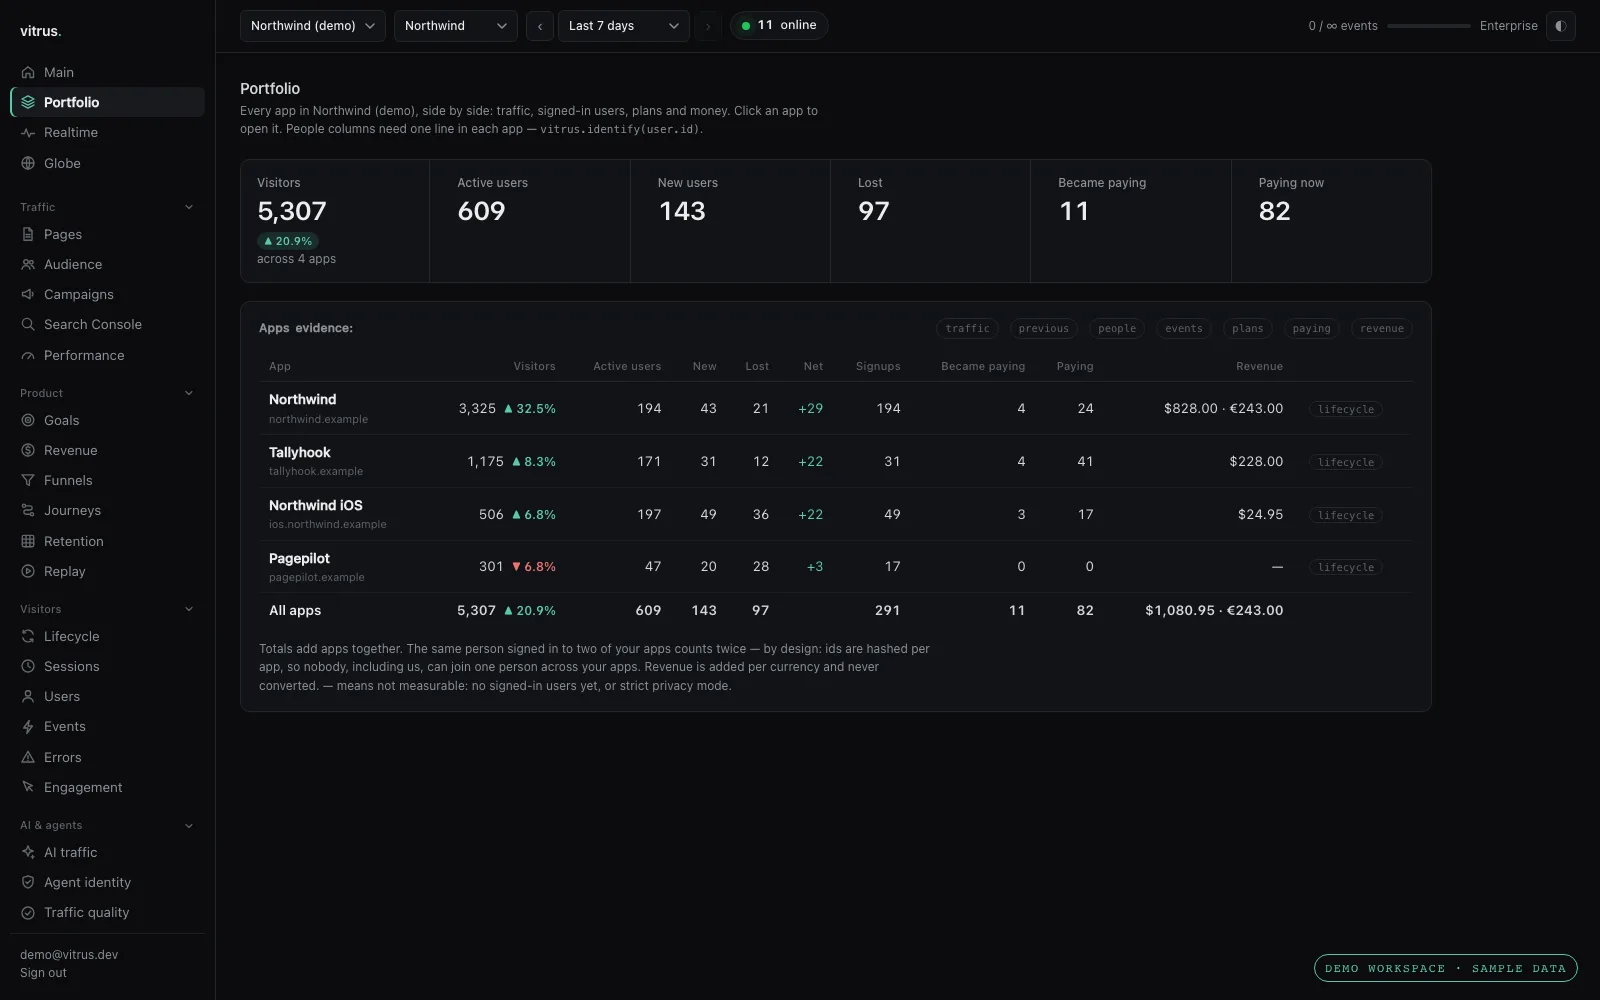
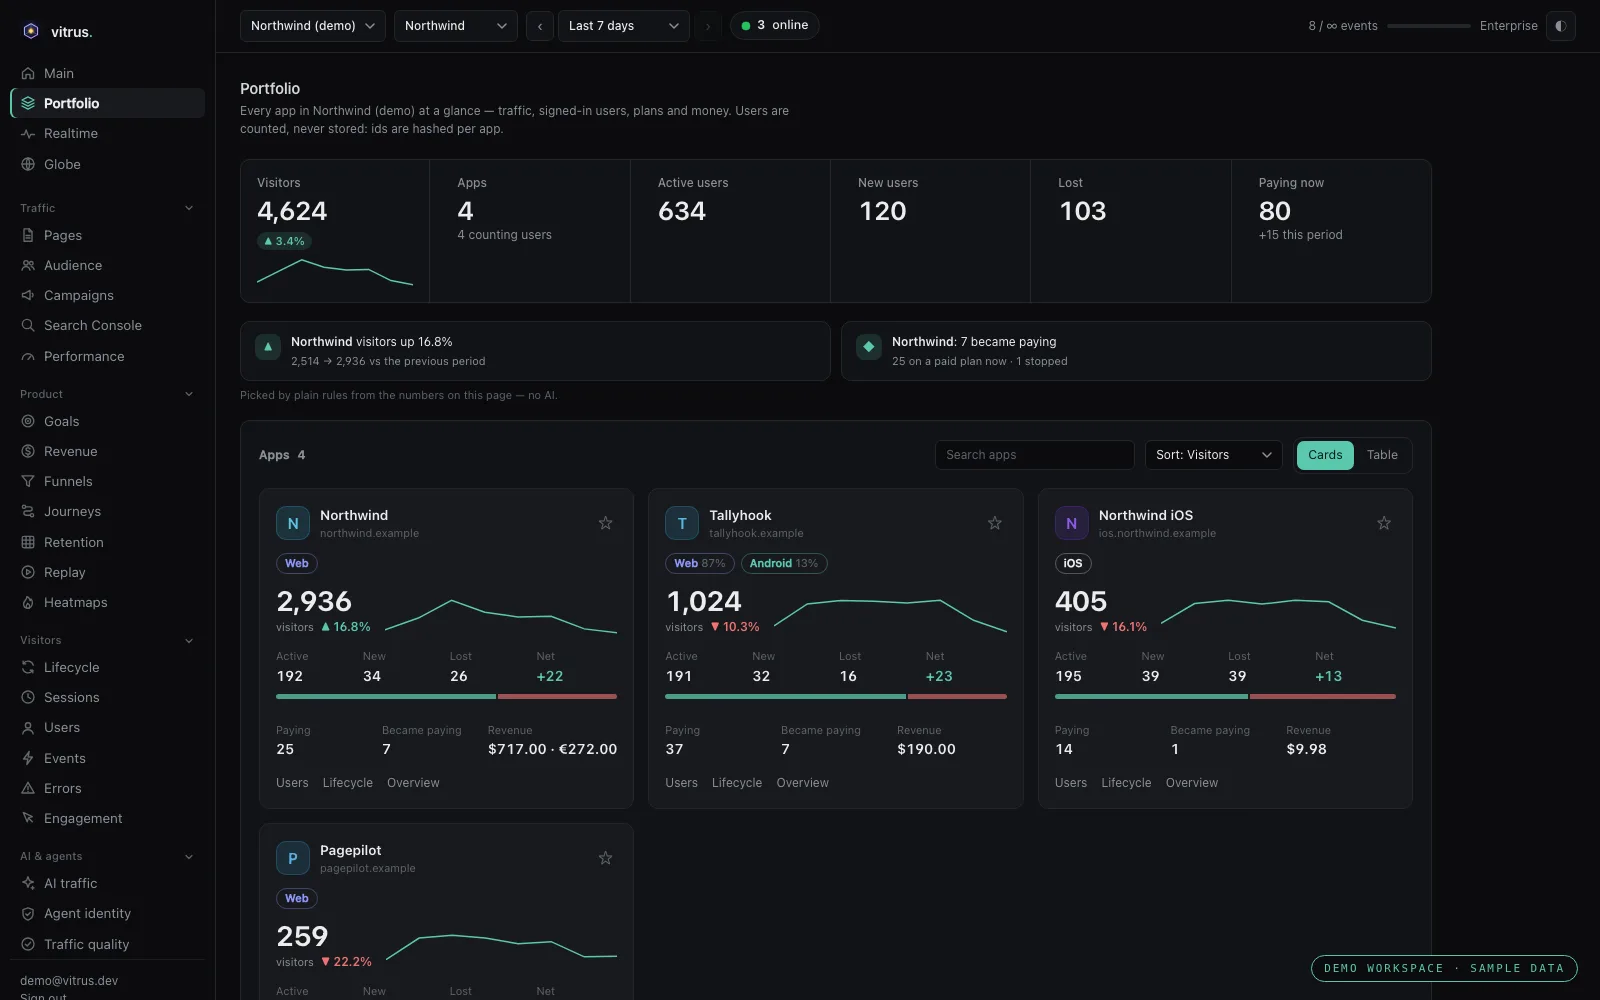
Portfolio: visitor trend line and Web/iOS/Android split per app (0.11.0)
computePortfolio now returns, per site, visitors per day (per week past three
months) and visitors per platform, each with the SQL that produced it. The
SDKs' own user-agent is what puts an app under iOS or Android.

diff --git a/packages/core/src/metrics/portfolio.ts b/packages/core/src/metrics/portfolio.ts
@@ -58,10 +58,20 @@ export interface PortfolioRow {
   stoppedPaying: number;
   paying: number;
   revenue: { currency: string; revenue: number; orders: number }[];
+  /** Visitors per bucket across the range (`window.bucket` ms each, UTC-aligned), oldest first. */
+  series: number[];
+  /** Visitors per platform. A visitor seen on two platforms counts on both. */
+  platforms: Record<Platform, number>;
 }
 
+export type Platform = "web" | "ios" | "android" | "app";
+export const PLATFORMS: readonly Platform[] = ["web", "ios", "android", "app"];
+const DAY = 86400000;
+/** Up to ~3 months a point per day; longer ranges get a point per week so the line stays readable. */
+export const bucketOf = (span: number): number => (span <= 92 * DAY ? DAY : 7 * DAY);
+
 export interface PortfolioResult {
-  window: { from: number; to: number; previousFrom: number };
+  window: { from: number; to: number; previousFrom: number; bucket: number; bucketFrom: number };
   rows: PortfolioRow[];
   totals: {
     sites: number;
@@ -76,7 +86,7 @@ export interface PortfolioResult {
     revenue: { currency: string; revenue: number; orders: number }[];
   };
   /** One entry per column: the query that produced it. */
-  evidence: Record<"traffic" | "previous" | "people" | "events" | "plans" | "paying" | "revenue", Query>;
+  evidence: Record<"traffic" | "previous" | "people" | "events" | "plans" | "paying" | "revenue" | "series" | "platforms", Query>;
 }
 
 export class PortfolioError extends Error {}
@@ -184,6 +194,30 @@ SELECT site_id,
     [...idParams, o.from, o.to]
   );
 
+  const bucket = bucketOf(span);
+  const bucketFrom = Math.floor(o.from / bucket) * bucket;
+  const buckets = Math.max(1, Math.ceil((o.to - bucketFrom) / bucket));
+  const series = await run<{ site_id: string; b: number; visitors: number }>(
+    select,
+    "visitors per site and day (or week, past three months)",
+    `SELECT site_id, CAST((ts - ?) / ? AS INTEGER) AS b, COUNT(DISTINCT visitor_id) AS visitors
+       FROM events WHERE site_id IN ${inList} AND ts >= ? AND ts < ? AND ${HUMAN}
+      GROUP BY site_id, b`,
+    [bucketFrom, bucket, ...idParams, o.from, o.to]
+  );
+  // The SDKs send "Vitrus-iOS/…", which ua.ts files under the browser "iOS app" — so app traffic needs no extra column.
+  const platforms = await run<{ site_id: string; platform: Platform; visitors: number }>(
+    select,
+    "visitors per site and platform",
+    `SELECT site_id,
+            CASE WHEN browser = 'iOS app' THEN 'ios' WHEN browser = 'Android app' THEN 'android'
+                 WHEN browser = 'App' OR browser LIKE '% app' THEN 'app' ELSE 'web' END AS platform,
+            COUNT(DISTINCT visitor_id) AS visitors
+       FROM events WHERE site_id IN ${inList} AND ts >= ? AND ts < ? AND ${HUMAN}
+      GROUP BY site_id, platform`,
+    [...idParams, o.from, o.to]
+  );
+
   const by = <T extends { site_id: string }>(q: Query<T>) => new Map(q.rows.map((r) => [r.site_id, r]));
   const tMap = by(traffic), pMap = by(previous), peMap = by(people), eMap = by(events), plMap = by(plans), payMap = by(paying);
   const strict = new Set(o.strict ?? []);
@@ -212,8 +246,21 @@ SELECT site_id,
       revenue: revenue.rows
         .filter((r) => r.site_id === site.id && r.currency)
         .map((r) => ({ currency: r.currency, revenue: Math.round(n(r.revenue) * 100) / 100, orders: n(r.orders) })),
+      series: Array.from({ length: buckets }, () => 0),
+      platforms: { web: 0, ios: 0, android: 0, app: 0 },
     };
   });
+
+  const rowOf = new Map(rows.map((r) => [r.site.id, r]));
+  for (const r of series.rows) {
+    const row = rowOf.get(r.site_id);
+    const i = n(r.b);
+    if (row && i >= 0 && i < row.series.length) row.series[i] = n(r.visitors);
+  }
+  for (const r of platforms.rows) {
+    const row = rowOf.get(r.site_id);
+    if (row && r.platform in row.platforms) row.platforms[r.platform] = n(r.visitors);
+  }
 
   const cur = new Map<string, { revenue: number; orders: number }>();
   for (const r of rows) {
@@ -227,7 +274,7 @@ SELECT site_id,
   const sum = (f: (r: PortfolioRow) => number) => rows.reduce((a, r) => a + f(r), 0);
 
   return {
-    window: { from: o.from, to: o.to, previousFrom: pfrom },
+    window: { from: o.from, to: o.to, previousFrom: pfrom, bucket, bucketFrom },
     rows,
     totals: {
       sites: rows.length,
@@ -243,6 +290,6 @@ SELECT site_id,
         .map(([currency, v]) => ({ currency, revenue: Math.round(v.revenue * 100) / 100, orders: v.orders }))
         .sort((a, b) => b.revenue - a.revenue),
     },
-    evidence: { traffic, previous, people, events, plans, paying, revenue },
+    evidence: { traffic, previous, people, events, plans, paying, revenue, series, platforms },
   };
 }

diff --git a/packages/core/test/lifecycle.test.ts b/packages/core/test/lifecycle.test.ts
@@ -251,6 +251,32 @@ describe("computePortfolio", () => {
     expect(p.evidence.people.sql).toContain("GROUP BY site_id, identity");
   });
 
+  test("a visitor line per site and a web/iOS/Android split, both counted by SQL that is returned", async () => {
+    const store = await freshStore();
+    const ing = ingestorFor(store);
+    const IOS = "Vitrus-iOS/0.1.0 (iPhone; iOS 18.0) Northwind/2.3";
+    const ANDROID = "Vitrus-Dart/0.1.0 (Phone; Android 14) Northwind/2.3";
+    const hit = (ua: string, ip: string, now: number) =>
+      ing.ingest({ site: SITE.id, type: "pageview", url: "/screen/Home" }, { ip, userAgent: ua, now, host: SITE.domain });
+    await hit(CHROME, "198.51.100.1", NOW - 6 * DAY + 1000);
+    await hit(CHROME, "198.51.100.2", NOW - DAY + 1000);
+    await hit(IOS, "198.51.100.3", NOW - DAY + 2000);
+    await hit(IOS, "198.51.100.4", NOW - DAY + 3000);
+    await hit(ANDROID, "198.51.100.5", NOW - 1000);
+    const p = await computePortfolio((s, prm) => store.select(s, prm), { sites: [{ id: SITE.id, name: "Demo", domain: SITE.domain }], from: FROM, to: NOW });
+    const row = p.rows[0]!;
+    expect(p.window.bucket).toBe(DAY);
+    expect(row.series.length).toBe(Math.ceil((NOW - p.window.bucketFrom) / DAY));
+    expect(row.series.reduce((a, b) => a + b, 0)).toBe(5);
+    expect(row.platforms).toEqual({ web: 2, ios: 2, android: 1, app: 0 });
+    expect(p.evidence.platforms.sql).toContain("'iOS app'");
+    expect(p.evidence.series.sql).toContain("GROUP BY site_id, b");
+    // a long range switches to weekly points
+    const long = await computePortfolio((s, prm) => store.select(s, prm), { sites: [{ id: SITE.id, name: "Demo", domain: SITE.domain }], from: NOW - 180 * DAY, to: NOW });
+    expect(long.window.bucket).toBe(7 * DAY);
+    expect(long.rows[0]!.series.length).toBeLessThanOrEqual(27);
+  });
+
   test("an empty workspace is valid SQL and all zeros only where zero was measured", async () => {
     const store = await freshStore();
     const p = await computePortfolio((s, prm) => store.select(s, prm), { sites: [], from: FROM, to: NOW });

diff --git a/packages/core/src/index.ts b/packages/core/src/index.ts
@@ -170,6 +170,9 @@ export {
   computePortfolio,
   PortfolioError,
   PORTFOLIO_MAX_SITES,
+  PLATFORMS,
+  bucketOf,
+  type Platform,
   type PortfolioResult,
   type PortfolioRow,
   type PortfolioSite,

diff --git a/README.md b/README.md
@@ -94,7 +94,7 @@ vitrus("plan", { plan: "pro" })    // optional: your own plan labels
 ```
 
 <p align="center">
-  <img src=".github/assets/shot-portfolio.webp" alt="The Portfolio page: four apps side by side with visitors, active, new and lost users, signups, paying users and revenue (demo workspace, sample data)" width="100%">
+  <img src=".github/assets/shot-portfolio.webp" alt="The Portfolio page: one card per app with a visitor trend line, Web/iOS/Android badges, active, new and lost users, paying users and revenue (demo workspace, sample data)" width="100%">
 </p>
 
 - **Every user, under a made-up name.** Open an app and each signed-in user is a row — returning, one-time or signed
